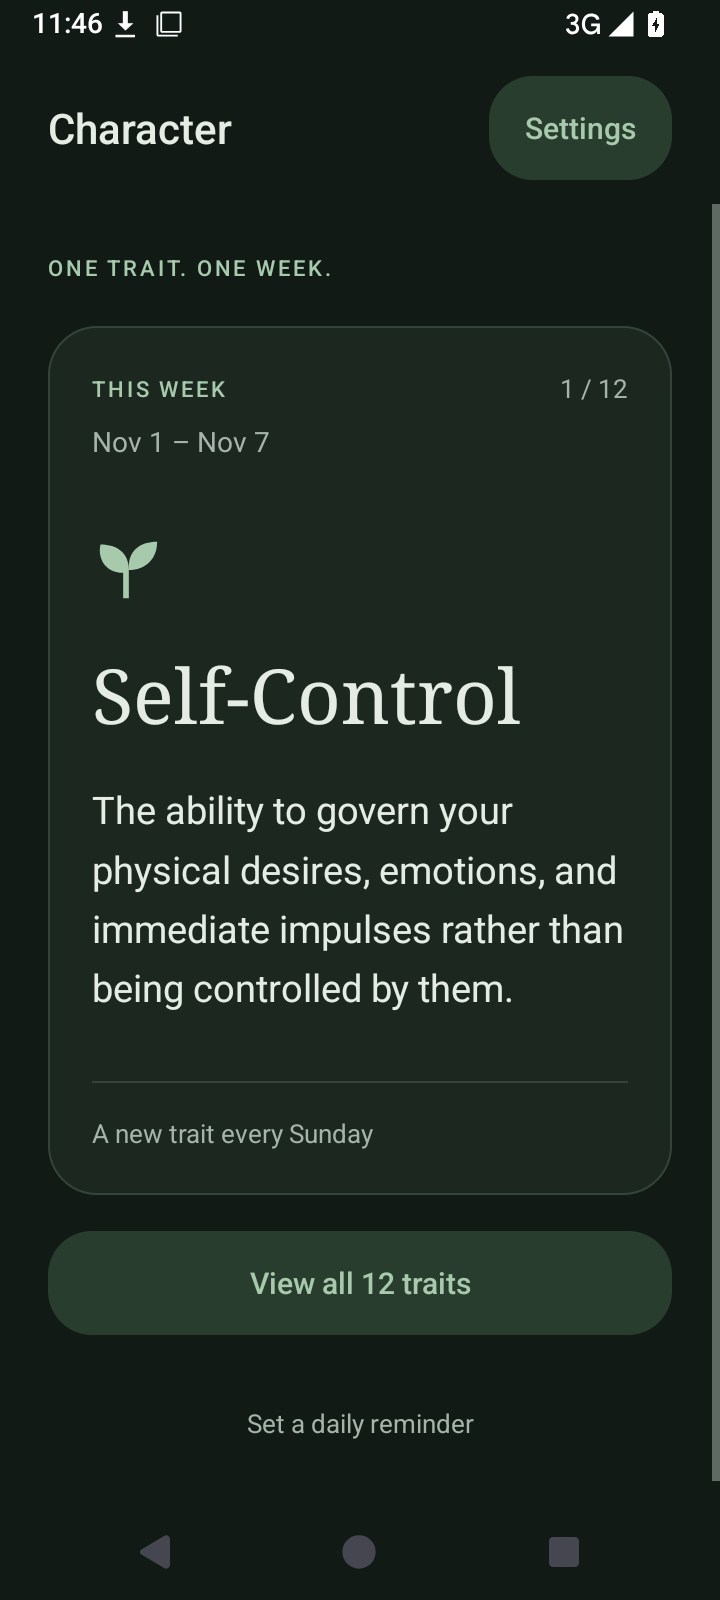
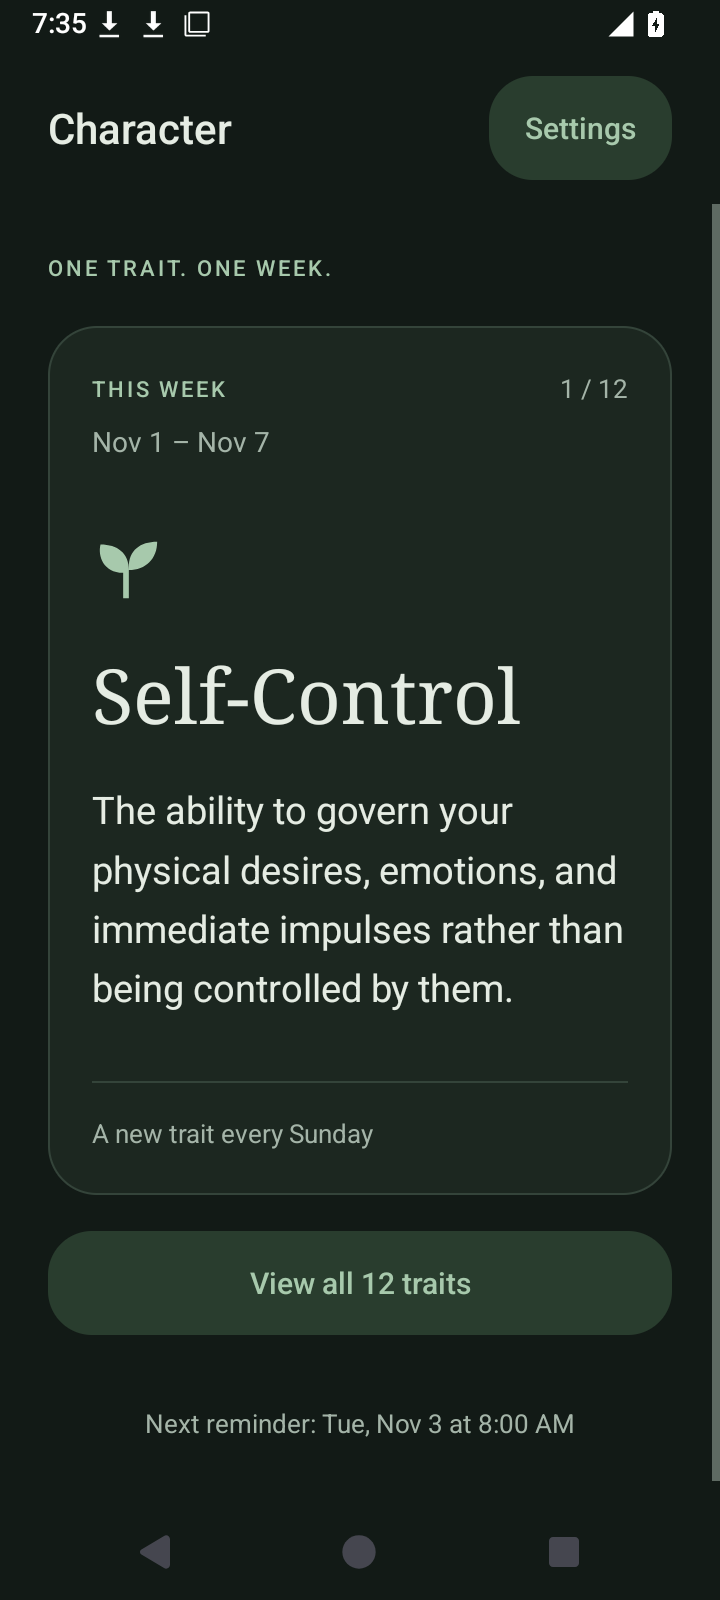
Document production validation and update reminder and backup screenshots

diff --git a/app/src/main/java/com/zohandam/character/MainActivity.kt b/app/src/main/java/com/zohandam/character/MainActivity.kt
@@ -499,7 +499,7 @@ class MainActivity : Activity() {
         space(page, 22)
         page.addView(label("A quiet weekly reminder of the character you want to cultivate. Focus on one of twelve traits each week, read its meaning, and choose daily reminders that fit your day.", 17f))
         space(page, 14)
-        page.addView(label("The cycle advances every Sunday. Trait names and definitions are yours to edit. Your settings and edits stay on this device; internet access is used only for update checks and downloads you request.", 14f, muted))
+        page.addView(label("The cycle advances every Sunday. Trait names and definitions are yours to edit. Data is stored on this device; backups go to a location you choose. Internet access is used for update checks and downloads you request.", 14f, muted))
         space(page, 28)
         val updates = card()
         updates.addView(smallLabel("APP UPDATES"))

diff --git a/docs/VALIDATION-1.1.0.md b/docs/VALIDATION-1.1.0.md
@@ -1,0 +1,32 @@
+# Validation: 1.1.0
+
+Version **1.1.0 (3)**. APK: **91,278 bytes**. Requires Android 10 / API 29 or newer.
+
[1 lines of base64/hex data omitted]
+
[1 lines of base64/hex data omitted]
+
+## Build and unit checks
+
+- **26 tests passed**, with zero failures or errors. Coverage includes Sunday rotation, cycle/year boundaries, next-reminder calculations, preserving delayed pending reminders, missing/stale alarm recovery, explicit clock rebuilds, Sunday notification expiry, daylight saving, version comparison, and backup data validation.
+- Android lint: **0 errors, 2 warnings** concerning newer available SDK levels. The app currently targets API 35.
+- Signed, minified release build and APK signature verification passed.
+- [GitHub CI for the feature changes](https://github.com/ZohanDam/character/actions/runs/41489869117) passed tests, lint, and the debug build.
+
+## Android 15 emulator checks
+
+- **Resume:** both registered reminder timestamps remained unchanged when the app returned from the background.
+- **Delivery:** an 8:00 AM reminder arrived while the app was in the background. Tomorrow's 8:00 AM reminder was scheduled, while today's separate 6:00 PM reminder remained intact.
+- **Sunday expiry:** Android removed a notification posted on Saturday at Sunday midnight. The weekly trait advanced from Prudence to Diligence. Only the isolated test emulator's clock was changed and then restored.
+- **Test notification:** requesting a test while daily reminders were off prompted for notification permission, posted the current trait with the shortened title and expandable definition, and left daily reminders off.
+- **Next reminder:** the displayed date and time matched the stored Android schedule; blocked notification permission was shown explicitly after reinstall.
+- **Sound controls:** the shortcut opened Android's settings for the correct Trait reminders channel.
+- **Backup export:** the production app exported all twelve traits, reminder preference/times, starting Sunday, and theme through Android's document picker.
+- **Import:** edited Unicode definitions, both reminder times, reminder preference, theme, and starting Sunday were restored. Cancelling import and selecting malformed JSON left the existing settings unchanged.
+- **Uninstall recovery:** a production backup survived uninstall; a clean signed installation restored the complete data through Android's picker. Android notification permission was not transferred.
+- **Upgrade:** the actual signed 1.0.1 → 1.1.0 update preserved edited data and migrated both legacy reminder times into the new scheduler.
+- **Repeat downloads:** a local debug fixture with a lower version label exercised the new code against the existing public 1.0.1 release. A pre-existing APK did not block downloading; completed downloads were recognized; an explicit retry created a distinct file. Both downloaded APKs matched the public signed release byte for byte. No fake public release was created.
+
+## Limits
+
+Checks used an Android 15 x86_64 emulator. Physical-phone battery use, manufacturer-specific idle restrictions, other Android versions, and real device reboot delivery remain unverified. Boot/time-change rescheduling is implemented; time-change broadcasts and weekly expiry were exercised on the emulator. Signing credentials remain local and are excluded from GitHub.

diff --git a/README.md b/README.md
@@ -28,6 +28,8 @@ The twelve traits are Self-Control, Order, Prudence, Diligence, Stewardship, Int
 
 Screenshots are from the installed Android app. The [About screen](docs/screenshots/info-light.png) shows the version, description, and update check.
 
+Also see the [backup controls](docs/screenshots/backup-dark.png) and [notification drawer](docs/screenshots/notification-drawer.png).
+
 ## Reminder delivery
 
 Android 13+ requires notification permission. Settings shows a notification-permission shortcut when needed. Android 12+ may also require **Alarms & reminders** access for precise timing; without it, standard reminders still work but Android may delay delivery. Exact delivery can still be affected by device restrictions. Multiple pending times remain independent when a reminder is delivered late.
@@ -67,4 +69,4 @@ For a signed release, set `CHARACTER_KEYSTORE`, `CHARACTER_STORE_PASSWORD`, and 
 
 The app checks GitHub's latest stable release, compares the three numeric version components, and accepts APK links only from this repository's GitHub release-download path. Prereleases are excluded. Android enforces package/signature compatibility when installing updates. Signing credentials stay outside Git and GitHub; CI builds and tests without them.
 
-See [validation results](docs/VALIDATION.md) for completed checks and their limits.
+See [1.1.0 validation results](docs/VALIDATION-1.1.0.md) for completed checks and their limits. The [1.0.1 record](docs/VALIDATION.md) is retained separately.
